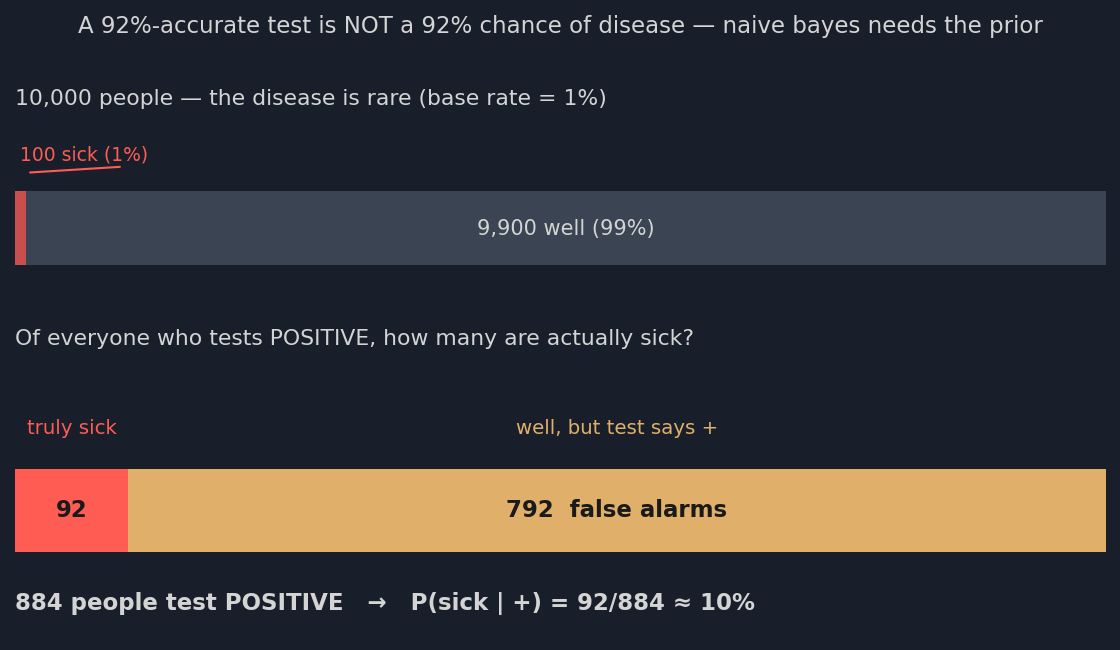
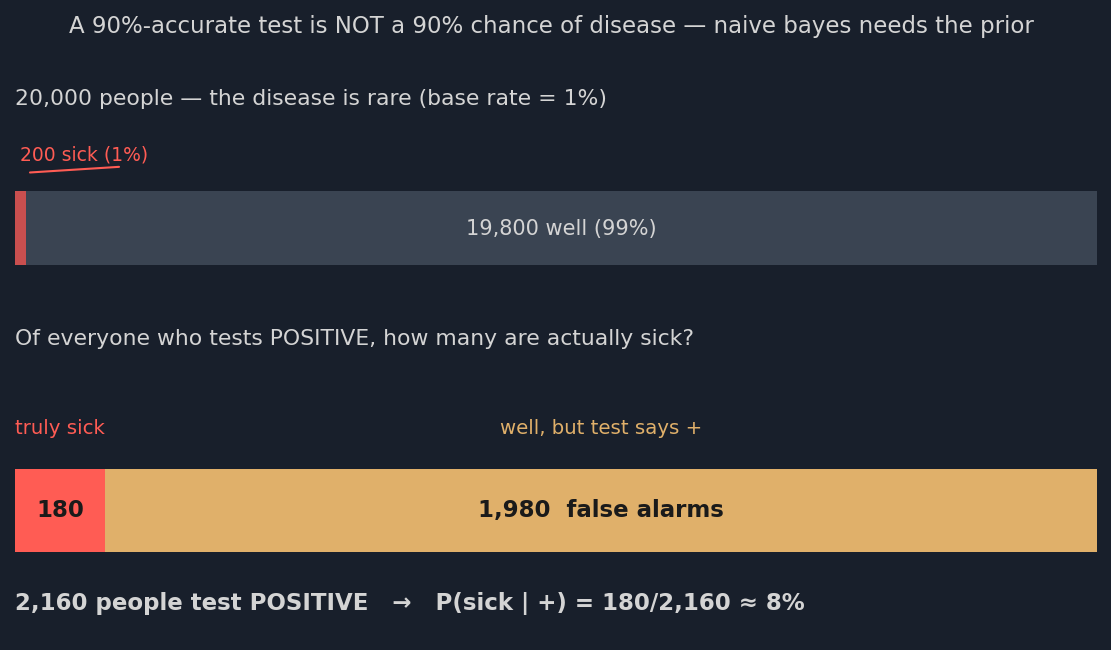
gloss7: base-rate numbers now reconcile + no count=percent coincidence
20,000 people, 1% sick (200), 90% test -> TP 180, FP 1,980, P(sick|+) ~8%.

diff --git a/docs/gloss7.html b/docs/gloss7.html
@@ -202,8 +202,8 @@ New acronyms: knn, NB (naive Bayes), kpp (k-means++).
 The picture above is ONE column. <em>likes</em> turns the product into a sum of logs over every x column (logs, so tiny probabilities do not underflow), and <em>mostlikes</em> picks the best-scoring class:
 <pre><span class=c>-- likes: one class's score = log prior + &Sigma; per-column log-likes</span><br><span class=k>function</span> <span class=f>TBL.likes</span>(h,row,nrows,nh,    prior,out,v)<br>  prior = (#h.rows + the.m) / (nrows + the.m*nh)<br>  out   = log(prior)<br>  <span class=k>for</span> _,c <span class=k>in</span> ipairs(h.cols.x) <span class=k>do</span>              <span class=c>-- across ALL x columns</span><br>    v = row[c.at]<br>    <span class=k>if</span> v ~= <span class=s>"?"</span> <span class=k>then</span><br>      v = like(c, v, prior)<br>      <span class=k>if</span> v &gt; 0 <span class=k>then</span> out = out + log(v) <span class=k>end</span> <span class=k>end</span> <span class=k>end</span><br>  <span class=k>return</span> out <span class=k>end</span><br><br><span class=c>-- mostlikes: run likes for every class, return the winner</span><br><span class=k>function</span> <span class=f>mostlikes</span>(h,row,nrows,nh,    best,bs,s)<br>  bs = -1e32<br>  <span class=k>for</span> k,hk <span class=k>in</span> pairs(h) <span class=k>do</span><br>    s = hk:likes(row, nrows, nh)<br>    <span class=k>if</span> s &gt; bs <span class=k>then</span> bs, best = s, k <span class=k>end</span> <span class=k>end</span><br>  <span class=k>return</span> best <span class=k>end</span></pre>
 <br><br>
-That `log(prior)` on the first line of <em>likes</em> is not decoration &mdash; it is the base rate, and dropping it is the most famous mistake in probability. A test that is 92% accurate for a disease 1% of people have does NOT make a positive result 92% likely to be real: the few true positives are swamped by false positives from the huge healthy group, so the honest answer is about 10%.
-<img src="bayes-square.png" width=640 alt="A 92% accurate test for a 1% disease: of 10,000 people, 92 are sick-and-positive (red) but 792 are well-and-positive (orange), so a positive result means only 92/884 is about 10% chance of being sick. The base-rate prior dominates.">
+That `log(prior)` on the first line of <em>likes</em> is not decoration &mdash; it is the base rate, and dropping it is the most famous mistake in probability. A test that is 90% accurate for a disease 1% of people have does NOT make a positive result 90% likely to be real: the few true positives are swamped by false positives from the huge healthy group, so the honest answer is about 8%.
+<img src="bayes-square.png" width=640 alt="A 90% accurate test for a 1% disease: of 20,000 people, 180 are sick-and-positive (red) but 1,980 are well-and-positive (orange), so a positive result means only 180/2,160 is about 8% chance of being sick. The base-rate prior dominates.">
 <br><br>
 NB only gets this right because <em>likes</em> starts from the prior. The rig is test-then-train: every row is GUESSED before it is learned, so the accuracy needs no held-out split and the model is always as current as the last row seen.
 <pre><span class=k>function</span> <span class=f>TBL.classify</span>(i,wait,    at,h,seen,nh,want)<br>  wait, at = wait <span class=k>or</span> the.wait, i.cols.klass.at<br>  h, seen, nh = {}, {}, 0<br>  <span class=k>for</span> j,row <span class=k>in</span> ipairs(i.rows) <span class=k>do</span><br>    want = row[at]<br>    <span class=k>if</span> j &gt;= wait <span class=k>and</span> nh &gt; 0 <span class=k>then</span><br>      push(seen, {mostlikes(h, row, #i.rows, nh), want}) <span class=k>end</span><br>    <span class=k>if</span> <span class=k>not</span> h[want] <span class=k>then</span> h[want] = i:clone(); nh = nh + 1 <span class=k>end</span><br>    h[want]:add(row) <span class=k>end</span><br>  <span class=k>return</span> seen <span class=k>end</span></pre>

diff --git a/docs/gloss7.md b/docs/gloss7.md
@@ -83,13 +83,13 @@ best-scoring class:
 
 That `log(prior)` on the first line of *likes* is not
 decoration &mdash; it is the base rate, and dropping it is the most
-famous mistake in probability. A test that is 92% accurate for
-a disease 1% of people have does NOT make a positive result 92%
+famous mistake in probability. A test that is 90% accurate for
+a disease 1% of people have does NOT make a positive result 90%
 likely to be real: the few true positives are swamped by false
 positives from the huge healthy group, so the honest answer is
-about 10%.
+about 8%.
 
-<img src="bayes-square.png" width=640 alt="A 92% accurate test for a 1% disease: of 10,000 people, 92 are sick-and-positive (red) but 792 are well-and-positive (orange), so a positive result means only 92/884 is about 10% chance of being sick. The base-rate prior dominates.">
+<img src="bayes-square.png" width=640 alt="A 90% accurate test for a 1% disease: of 20,000 people, 180 are sick-and-positive (red) but 1,980 are well-and-positive (orange), so a positive result means only 180/2,160 is about 8% chance of being sick. The base-rate prior dominates.">
 
 NB only gets this right because *likes* starts from the prior.
 The rig is test-then-train: every row is GUESSED before it is
